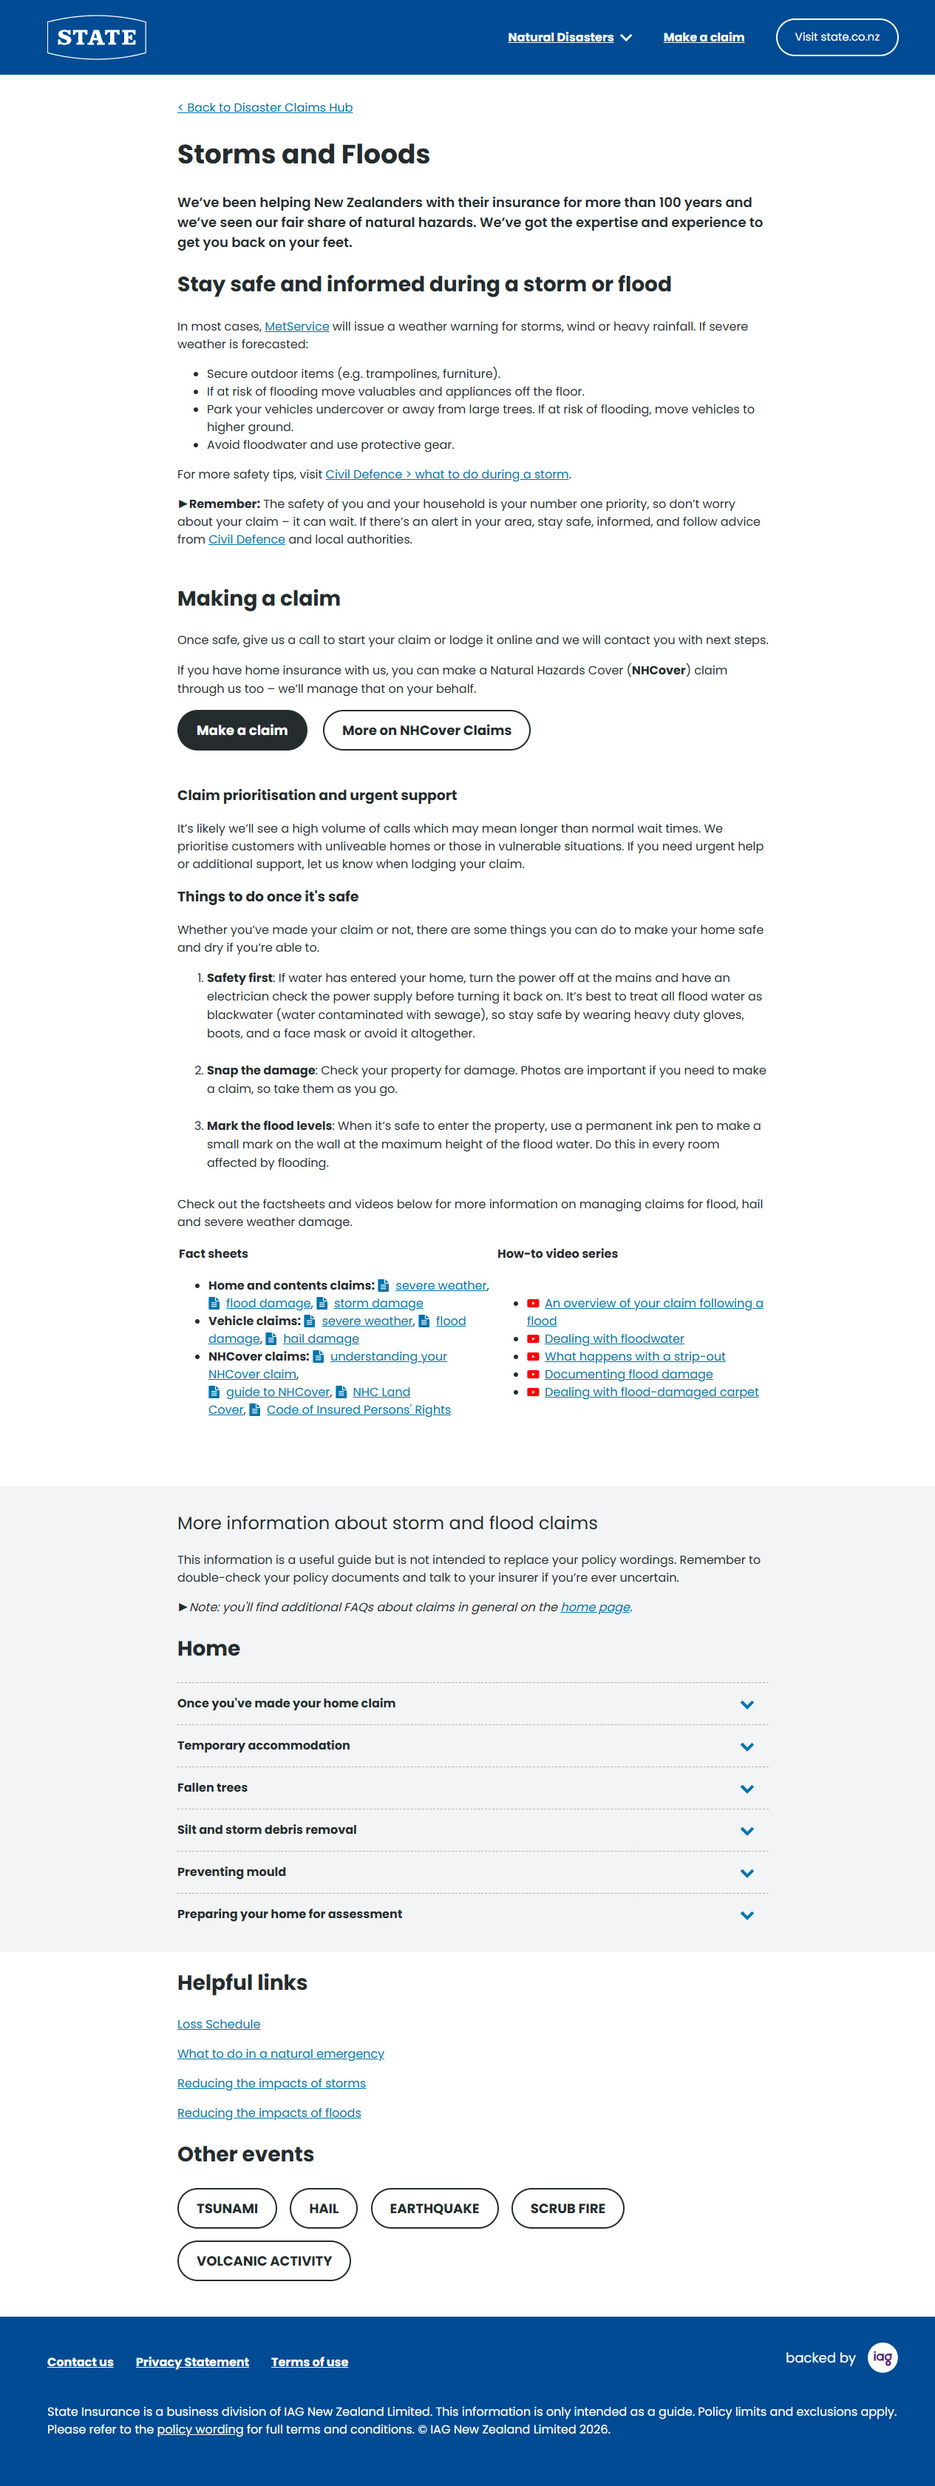
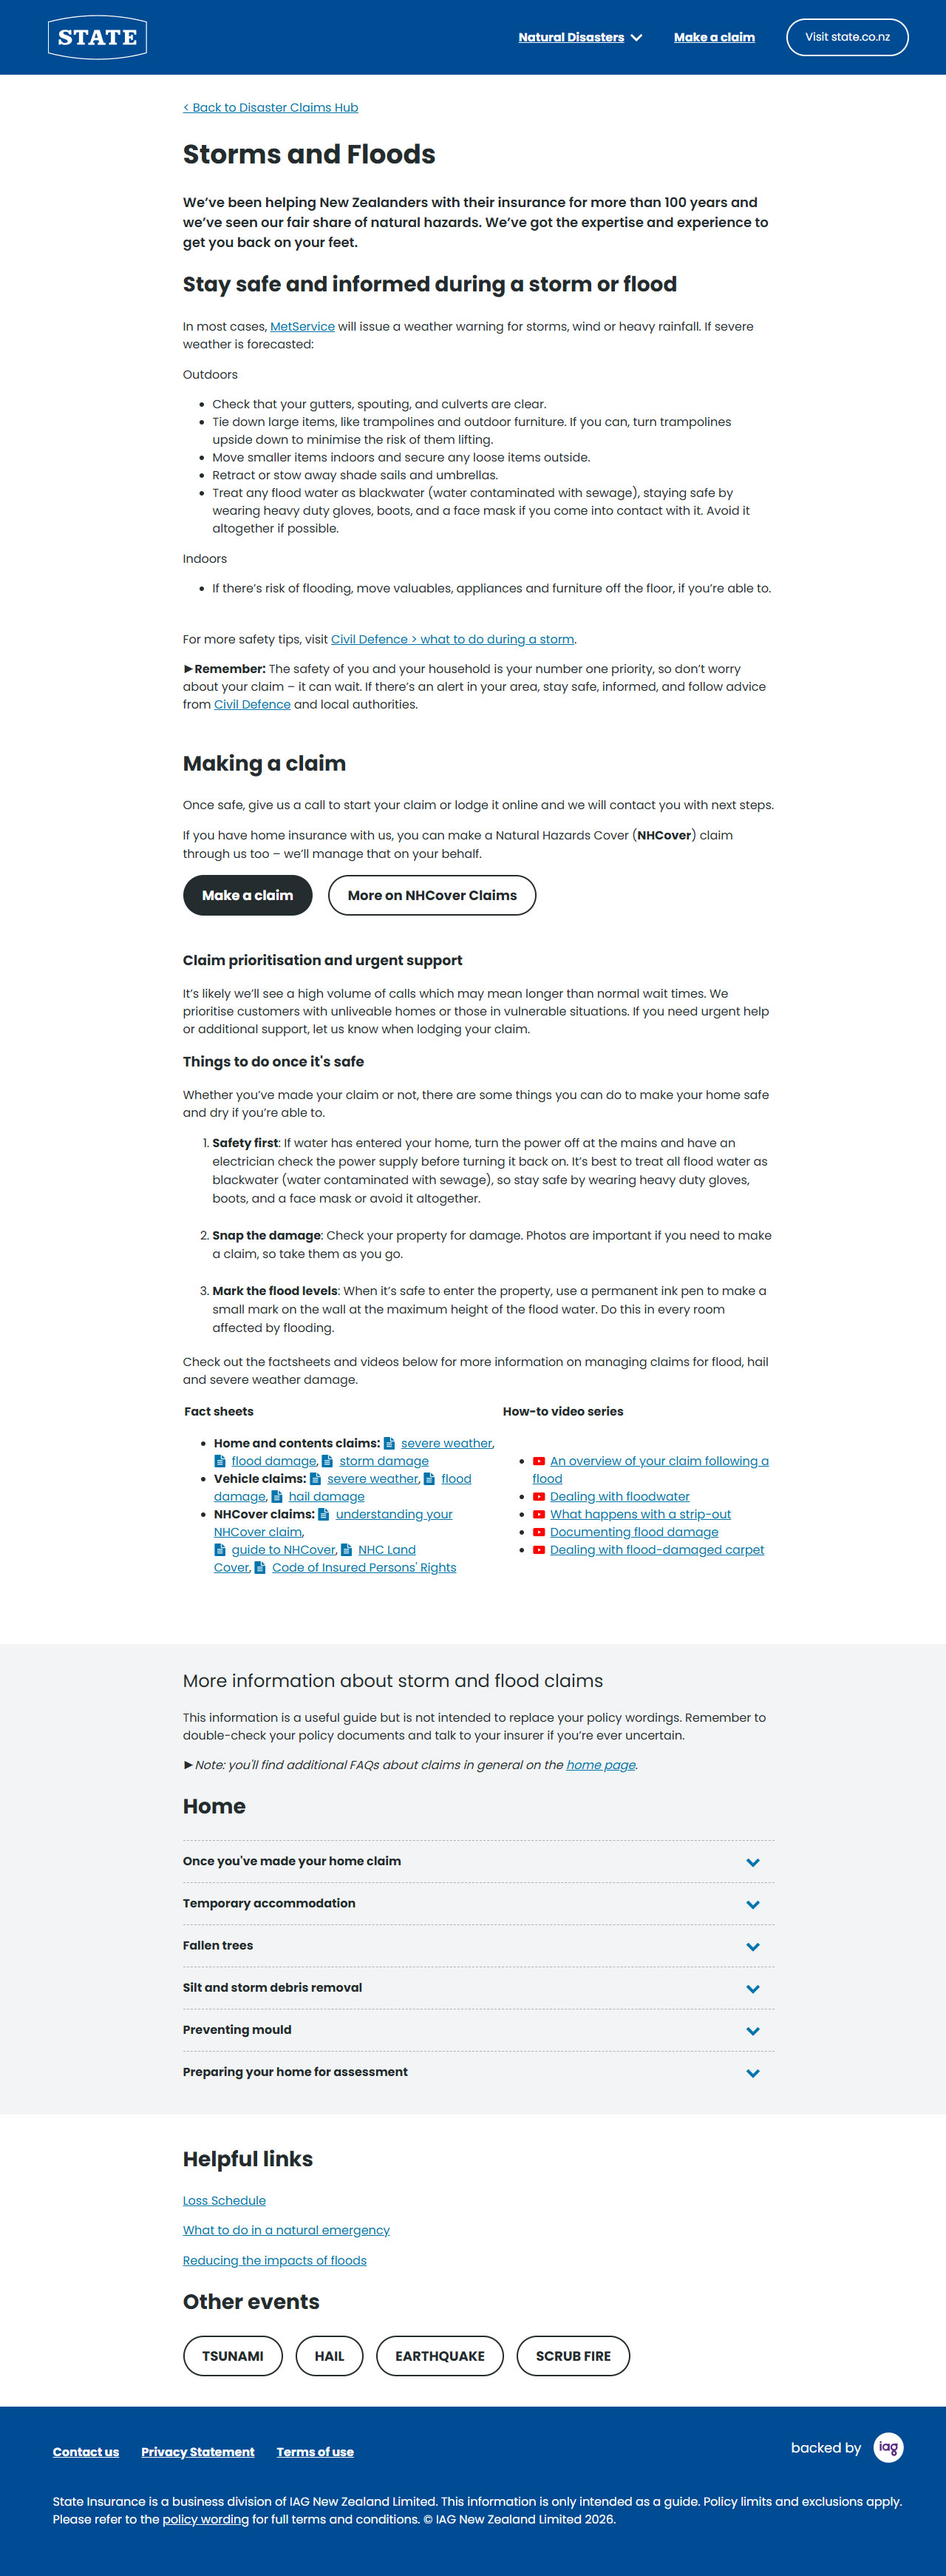
adding motion mobile and desktop carousels, new images and tweaks

diff --git a/src/Pages/projects/Iag/IagPage.tsx b/src/Pages/projects/Iag/IagPage.tsx
@@ -33,15 +33,18 @@ import {
   faDatabase,
   faCode,
   faArrowUpRightFromSquare,
+  faCircleHalfStroke,
+  faCubesStacked,
+  faEnvelope,
 } from '@fortawesome/free-solid-svg-icons';
 
 import sliderMobileImage from '../../../assets/projects/iag/iag-claims-ami-mobile.png';
 import sliderTabletImage from '../../../assets/projects/iag/iag-claims-ami-tablet.png';
 import sliderDesktopImage from '../../../assets/projects/iag/iag-claims-ami-desktop.png';
 
-import mobile01 from '../../../assets/projects/iag/mobile-01.jpg';
-import mobile02 from '../../../assets/projects/iag/mobile-02.jpg';
-import mobile03 from '../../../assets/projects/iag/mobile-03.jpg';
+import mobile01 from '../../../assets/projects/iag/mobile-01b.jpg';
+import mobile02 from '../../../assets/projects/iag/mobile-02b.jpg';
+import mobile03 from '../../../assets/projects/iag/mobile-03b.jpg';
 
 // import screenhotImageDesktop from '../../../assets/projects/iag/screenshot-disaster_hub-state-1440.jpg';
 // import screenhotImageTablet from '../../../assets/projects/iag/screenshot-disaster_hub-state-768.jpg';
@@ -299,7 +302,7 @@ const IagPage = () => {
           <div className={styles.architectureSectionCol3}>
             <SectionCopy textAlign="center">
               <span className={styles.architectureSectionIcon}>
-                <FontAwesomeIcon icon={faScaleBalanced} />
+                <FontAwesomeIcon icon={faJsSquare} />
               </span>
             </SectionCopy>
           </div>
@@ -340,7 +343,7 @@ const IagPage = () => {
           <div className={styles.architectureSectionCol3}>
             <SectionCopy textAlign="center">
               <span className={styles.architectureSectionIcon}>
-                <FontAwesomeIcon icon={faPeopleCarryBox} />
+                <FontAwesomeIcon icon={faScaleBalanced} />
               </span>
             </SectionCopy>
           </div>
@@ -419,7 +422,7 @@ const IagPage = () => {
           <div className={styles.architectureSectionCol3}>
             <SectionCopy textAlign="center">
               <span className={styles.architectureSectionIcon}>
-                <FontAwesomeIcon icon={faJsSquare} />
+                <FontAwesomeIcon icon={faPeopleCarryBox} />
               </span>
             </SectionCopy>
           </div>
@@ -493,12 +496,12 @@ const IagPage = () => {
 
       <SectionWrapper
         backgroundColor="#ffffff"
-        paddingTop={true}
+        paddingTop={false}
         paddingBottom={true}
         width="90%"
       >
         <SectionHeader h2="Testimonials" style="L3" color="#000" />
-        <Testimonials childWidth={30}>
+        <Testimonials>
           <SectionCopy>
             <p>
               "I just want to take the chance to give a shout out to you for all
@@ -582,7 +585,7 @@ const IagPage = () => {
           </SectionCopy>
           <SectionCopy>
             <p>
-              "When new requirements or challenges emerge, Charllie steps up and
+              "When new requirements or challenges emerge, Charlie steps up and
               gets the job done with enthusiasm and efficacy. Even when the
               tasks require after hours stakeholder meetings, or research,
               Charlie makes it happen, setting aside the time, ensuring we
@@ -696,9 +699,7 @@ const IagPage = () => {
             a true gift to be able to do. I know I can speak for the whole
             project team when I say how much we've appreciated the regular
             updates...and now we're almost live! Congrats on a great job getting
-            this across the line for us, despite the last minute hiccups, which
-            you also jumped on and fixed, and communicated with us about. You're
-            a true legend!"
+            this across the line for us. You're a true legend!"
           </p>
           <p>Tineke Bright</p>
         </SectionCopy>
@@ -795,23 +796,23 @@ const IagPage = () => {
           textAlign="center"
           bulletlist={[
             {
-              icon: faCloud,
+              icon: faDesktop,
               text: 'Fully responsive HTML email templates supporting mobile and desktop clients',
             },
             {
-              icon: faCode,
+              icon: faCircleCheck,
               text: 'Extensive cross-client testing using <a href="https://www.litmus.com/" target="_blank" rel="noopener noreferrer">Litmus</a>',
             },
             {
-              icon: faDesktop,
+              icon: faCircleHalfStroke,
               text: 'Optimized layouts for dark mode compatibility',
             },
             {
-              icon: faBoltLightning,
+              icon: faCubesStacked,
               text: 'Modular template structure allowing reuse across multiple communication types',
             },
             {
-              icon: faDatabase,
+              icon: faEnvelope,
               text: 'Built to support high-volume transactional email delivery',
             },
           ]}

diff --git a/src/components/Sections/Mobile/Mobile.tsx b/src/components/Sections/Mobile/Mobile.tsx
@@ -27,10 +27,10 @@ const Mobile = ({ images, backgroundColor, refreshPriority }: Iprops) => {
     if (width > 1599 && !is_touch_device()) {
       let ctx = gsap.context(() => {
         gsap.set('.mobile-phone-00', {
-          x: 460,
+          x: 440,
         });
         gsap.set('.mobile-phone-02', {
-          x: -460,
+          x: -440,
         });
 
         gsap.to('.mobile-phone-00', {
@@ -61,6 +61,37 @@ const Mobile = ({ images, backgroundColor, refreshPriority }: Iprops) => {
 
   const [activeImage, setActiveImage] = useState(0);
 
+  const imgRefs = useRef(images.map(() => createRef<HTMLImageElement>()));
+
+  useEffect(() => {
+    const yValues = [-1350, -1350, -1350];
+
+    const timelines = imgRefs.current.map((ref, index) => {
+      const yTarget = yValues[index] ?? -1350;
+      const tl = gsap.timeline({ repeat: -1, paused: true });
+      tl.to(ref.current, { y: yTarget, duration: 30, ease: 'none' }).to(
+        ref.current,
+        { y: 0, duration: 30, ease: 'none' }
+      );
+      return tl;
+    });
+
+    const observer = new IntersectionObserver(
+      ([entry]) =>
+        timelines.forEach(tl =>
+          entry.isIntersecting ? tl.play() : tl.pause()
+        ),
+      { threshold: 0 }
+    );
+    if (mobilePhoneWrapper.current)
+      observer.observe(mobilePhoneWrapper.current);
+
+    return () => {
+      observer.disconnect();
+      timelines.forEach(tl => tl.kill());
+    };
+  }, [images]);
+
   return (
     <section
       ref={mobilePhoneWrapper}
@@ -69,7 +100,7 @@ const Mobile = ({ images, backgroundColor, refreshPriority }: Iprops) => {
     >
       <div className={styles.mobile__wrapper}>
         <h1 className={styles.mobile__header}>mobile</h1>
-        <div>
+        <div className={styles.mobile__container}>
           {images.map((image, index) => {
             return (
               <div
@@ -82,7 +113,13 @@ const Mobile = ({ images, backgroundColor, refreshPriority }: Iprops) => {
                     : ''
                 }`}
               >
-                <img className={styles.mobile__img} src={image} />
+                <div className={styles.mobile__img_conatiner}>
+                  <img
+                    ref={imgRefs.current[index]}
+                    className={styles.mobile__img}
+                    src={image}
+                  />
+                </div>
               </div>
             );
           })}

diff --git a/src/components/Sections/ResponsiveSlider/ResponsiveSlider.tsx b/src/components/Sections/ResponsiveSlider/ResponsiveSlider.tsx
@@ -1,4 +1,4 @@
-import { useState, useLayoutEffect, useRef } from 'react';
+import { useState, useLayoutEffect, useRef, useEffect, createRef } from 'react';
 import RadioListNav from '../../layout/RadioListNav/RadioListNav';
 import useWindowDimensions from '../../../hooks/UseWindowDimensions';
 import { is_touch_device } from '../../../utils/utils';
@@ -59,6 +59,38 @@ const ResponsiveSlider = ({
     }
   }, [width]);
 
+  const imgRefs = useRef(images.map(() => createRef<HTMLImageElement>()));
+
+  useEffect(() => {
+    const yValues = [-900, -759, -1535];
+
+    const timelines = imgRefs.current.map((ref, index) => {
+      const yTarget = yValues[index] ?? -1350;
+      const tl = gsap.timeline({ repeat: -1, paused: true });
+      tl.to(ref.current, { y: yTarget, duration: 30, ease: 'none' }).to(
+        ref.current,
+        { y: 0, duration: 30, ease: 'none' }
+      );
+      //tl.seek(offset);
+      return tl;
+    });
+
+    const observer = new IntersectionObserver(
+      ([entry]) =>
+        timelines.forEach(tl =>
+          entry.isIntersecting ? tl.play() : tl.pause()
+        ),
+      { threshold: 0 }
+    );
+    if (heroBackgroundLayer.current)
+      observer.observe(heroBackgroundLayer.current);
+
+    return () => {
+      observer.disconnect();
+      timelines.forEach(tl => tl.kill());
+    };
+  }, [images]);
+
   const onNavClick = (index: number) => {
     setCurrentSlide(index);
     setSlideResolution(screenSizeLabels[index]);
@@ -88,7 +120,11 @@ const ResponsiveSlider = ({
                         : ''
                     }`}
                   >
-                    <img className={styles.bitmap__img} src={images[index]} />
+                    <img
+                      ref={imgRefs.current[index]}
+                      className={styles.bitmap__img}
+                      src={images[index]}
+                    />
                   </div>
                 );
               })}

diff --git a/src/components/Sections/Testimonials/Testimonials.tsx b/src/components/Sections/Testimonials/Testimonials.tsx
@@ -2,18 +2,17 @@ import React, { useState, useEffect, useRef } from 'react';
 import gsap from 'gsap';
 import { FontAwesomeIcon } from '@fortawesome/react-fontawesome';
 import { faAngleRight, faAngleLeft } from '@fortawesome/free-solid-svg-icons';
+import useWindowDimensions from '../../../hooks/UseWindowDimensions';
 
 import styles from './Testimonials.module.scss';
 
 interface TestimonialsProps {
   children: React.ReactNode;
-  childWidth: number;
 }
 
-const Testimonials: React.FC<TestimonialsProps> = ({
-  children,
-  childWidth,
-}) => {
+const Testimonials: React.FC<TestimonialsProps> = ({ children }) => {
+  const { width } = useWindowDimensions();
+  const childWidth = width > 2560 ? 30 : width < 768 ? 90 : 45;
   const [currentIndex, setCurrentIndex] = useState(0);
   const contentRef = useRef<HTMLDivElement>(null);
   const totalItems = React.Children.count(children);

diff --git a/src/components/Sections/Mobile/Mobile.module.scss b/src/components/Sections/Mobile/Mobile.module.scss
@@ -16,12 +16,16 @@
     @include mixin.SECTION-WRAPPER;
     @include mixin.STYLE-SECTION-PADDING;
   }
+  &__container {
+    display: flex;
+    align-items: center;
+    justify-content: center;
+    column-gap: 60px;
+  }
   &__header {
     display: none;
   }
-  &__phone_container {
-    position: relative;
-  }
+
   &__phone_vector {
     @include mixin.max-width-1599px {
       display: none;
@@ -30,7 +34,7 @@
       z-index: 100;
     }
     @include mixin.min-width-1600px {
-      margin: 0 40px;
+      // margin: 0 40px;
       display: inline-block;
       position: relative;
       padding: 50px 10px;
@@ -67,6 +71,11 @@
   }
   &__img {
     max-width: 100%;
+    position: relative;
+  }
+  &__img_conatiner {
+    overflow: hidden;
+    height: 640px;
   }
 }
 

diff --git a/src/components/Sections/Testimonials/Testimonials.module.scss b/src/components/Sections/Testimonials/Testimonials.module.scss
@@ -7,25 +7,16 @@
 }
 
 .slider_content {
-  //width: 180%;
-  @include mixin.min-width-1921px {
-    display: flex;
-  }
-}
-
-.slider_itemWrapper {
-  //width: 30%;
+  display: flex;
 }
 
 .slider_item {
-  @include mixin.min-width-1921px {
-    width: 80%;
-  }
+  width: 80%;
 }
 
 .slider_controls {
   position: absolute;
-  top: 11.5rem;
+  top: 2rem;
   right: 5%;
 }
 
@@ -41,7 +32,7 @@
   appearance: none;
   cursor: pointer;
   color: #000;
-  font-size: 6rem;
+  @include mixin.STYLE-HEADER-L4;
 }
 
 .slider_button:hover {

diff --git a/src/components/Sections/BtnSection/BtnSection.module.scss b/src/components/Sections/BtnSection/BtnSection.module.scss
@@ -26,15 +26,15 @@
   margin-bottom: 1rem;
   //width: 100%;
 
-  padding-left: 3rem;
-  padding-right: 3rem;
+  padding-left: 3.5rem;
+  padding-right: 3.5rem;
   white-space: nowrap;
 }
 
 .btn__secondary {
   @include mixin.BTN__SECONDARY;
-  padding-left: 3rem;
-  padding-right: 3rem;
+  padding-left: 3.5rem;
+  padding-right: 3.5rem;
   white-space: nowrap;
   margin-bottom: 1rem;
   //width: 100%;
